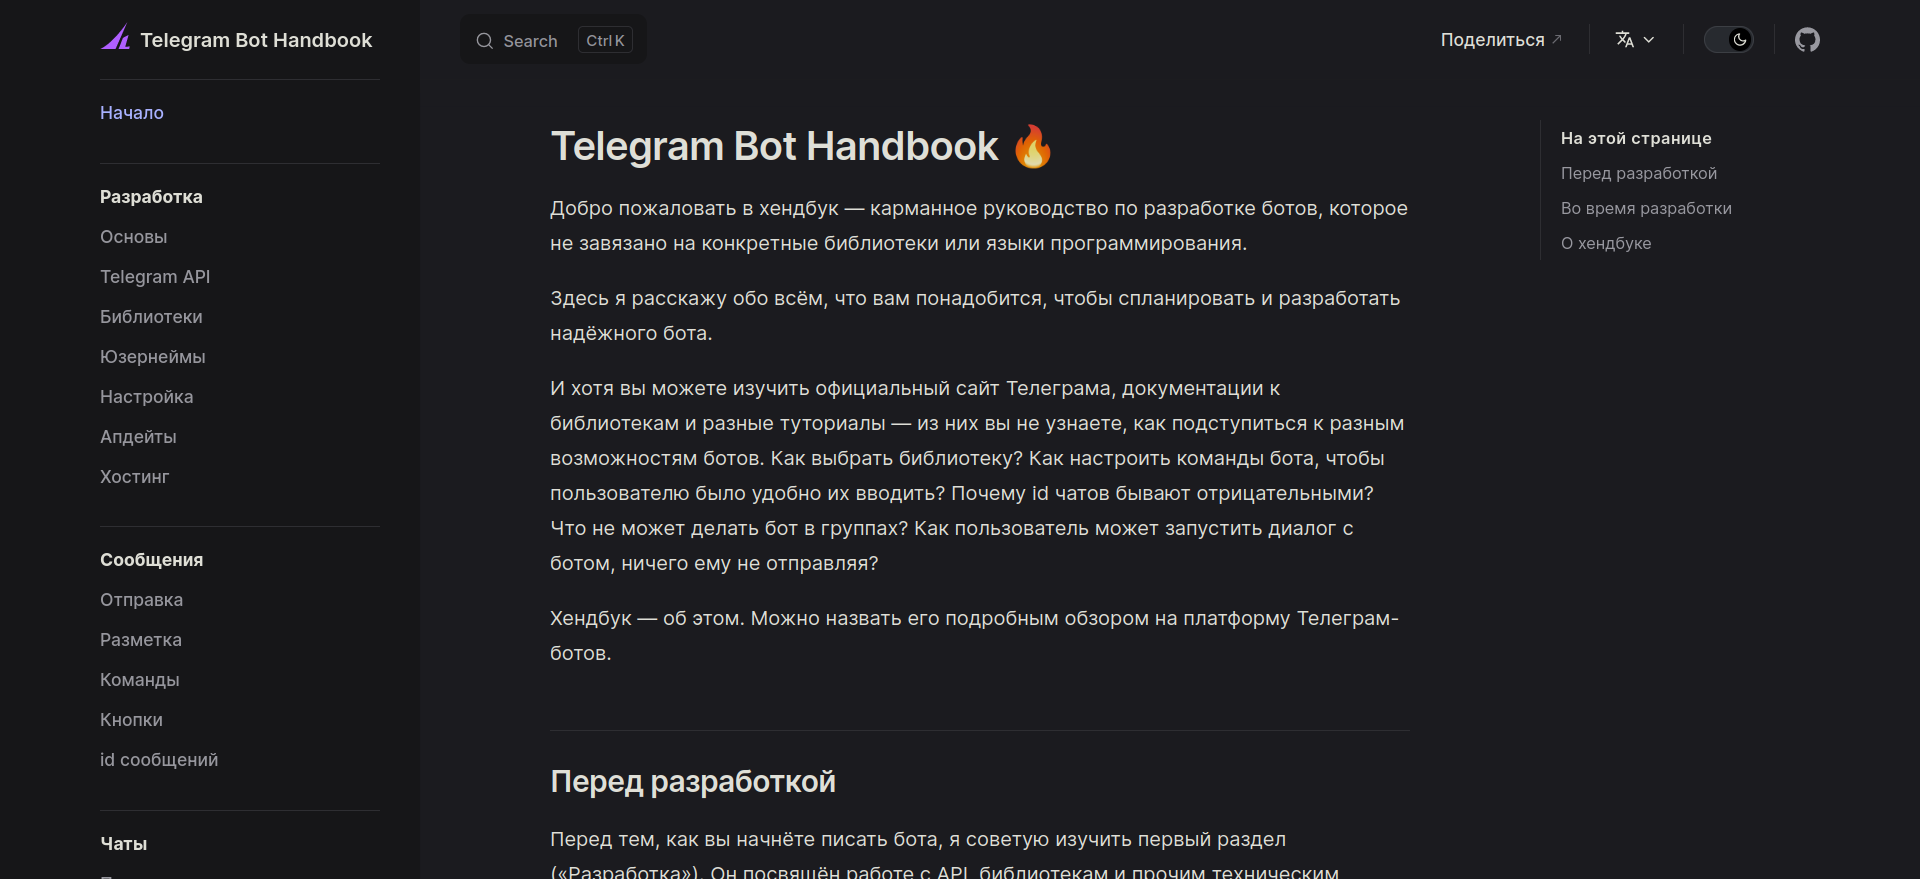
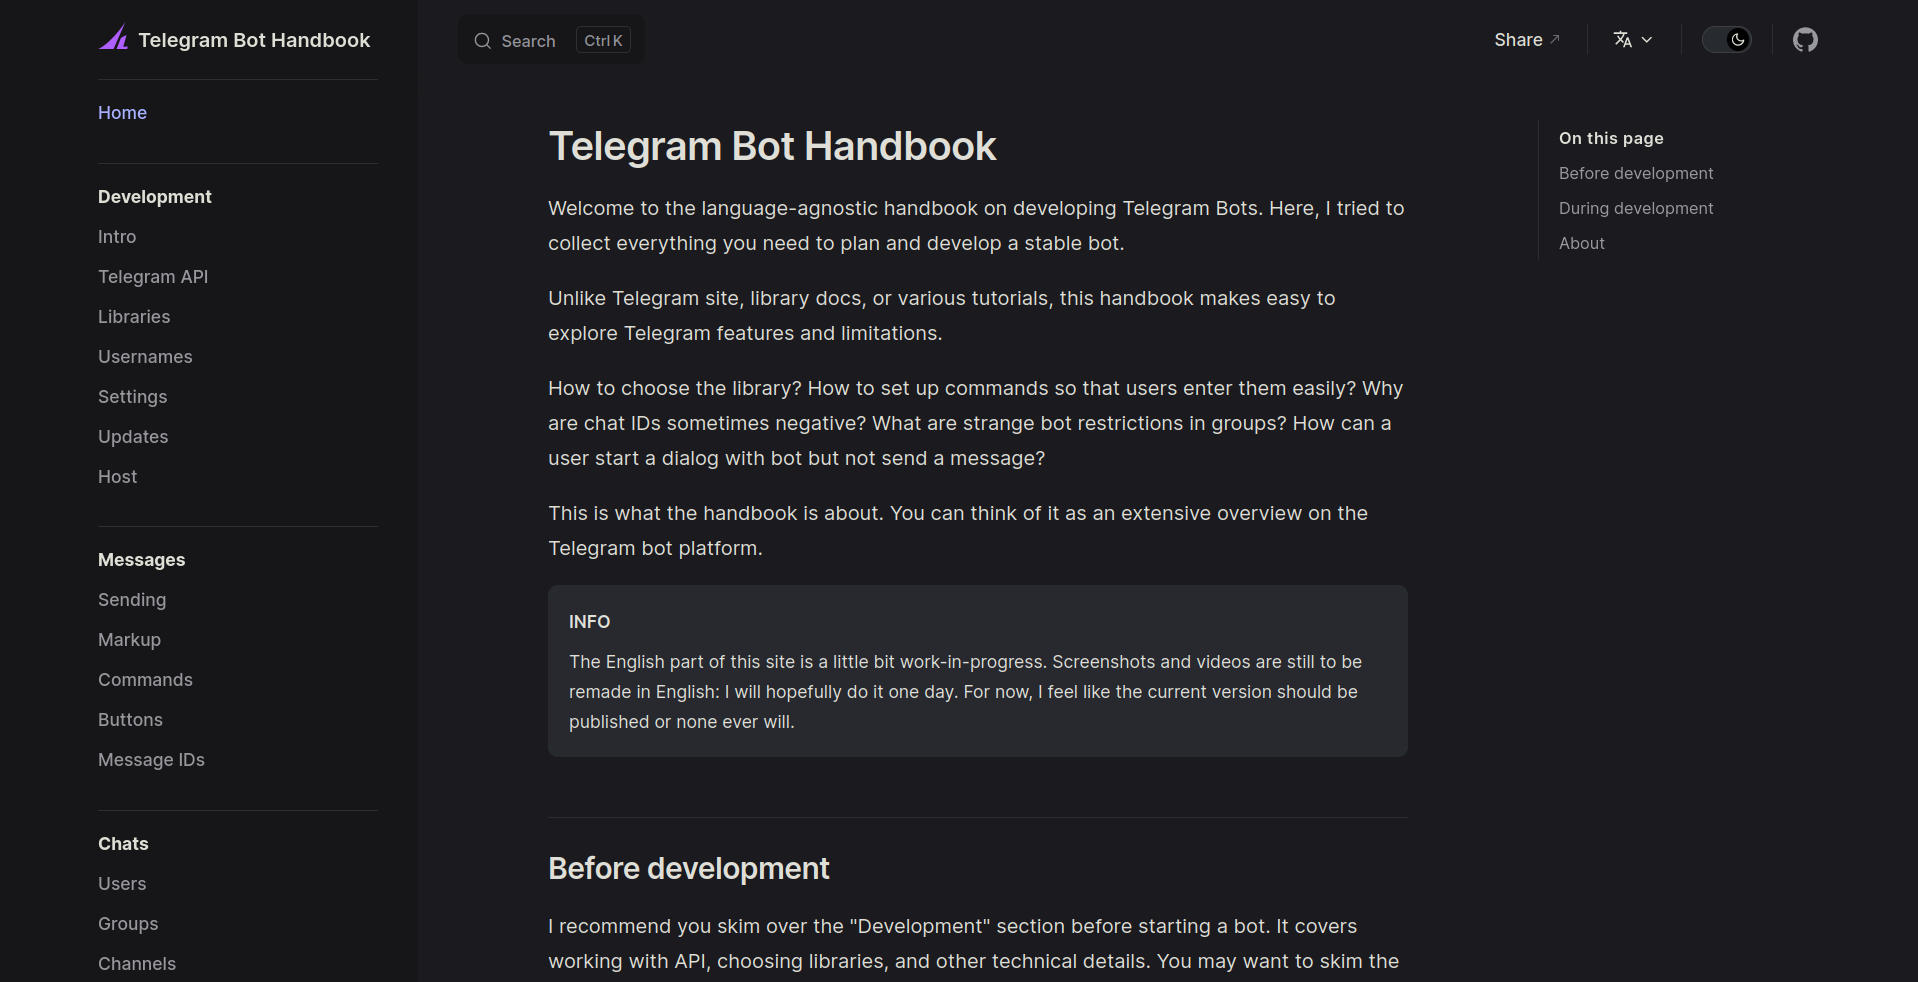
Update readme.md

diff --git a/readme.md b/readme.md
@@ -12,7 +12,7 @@
 
 Developing reliable Telegram bots: features, limitations, tricks.
 
-**Russian: https://handbook.tmat.me/ru/** &nbsp;&nbsp; **English:**&nbsp;coming&nbsp;soon
+**English:&nbsp;https://handbook.tmat.me/en/** &nbsp;&nbsp; **Russian:&nbsp;https://handbook.tmat.me/ru/**
 
 </div>
 
